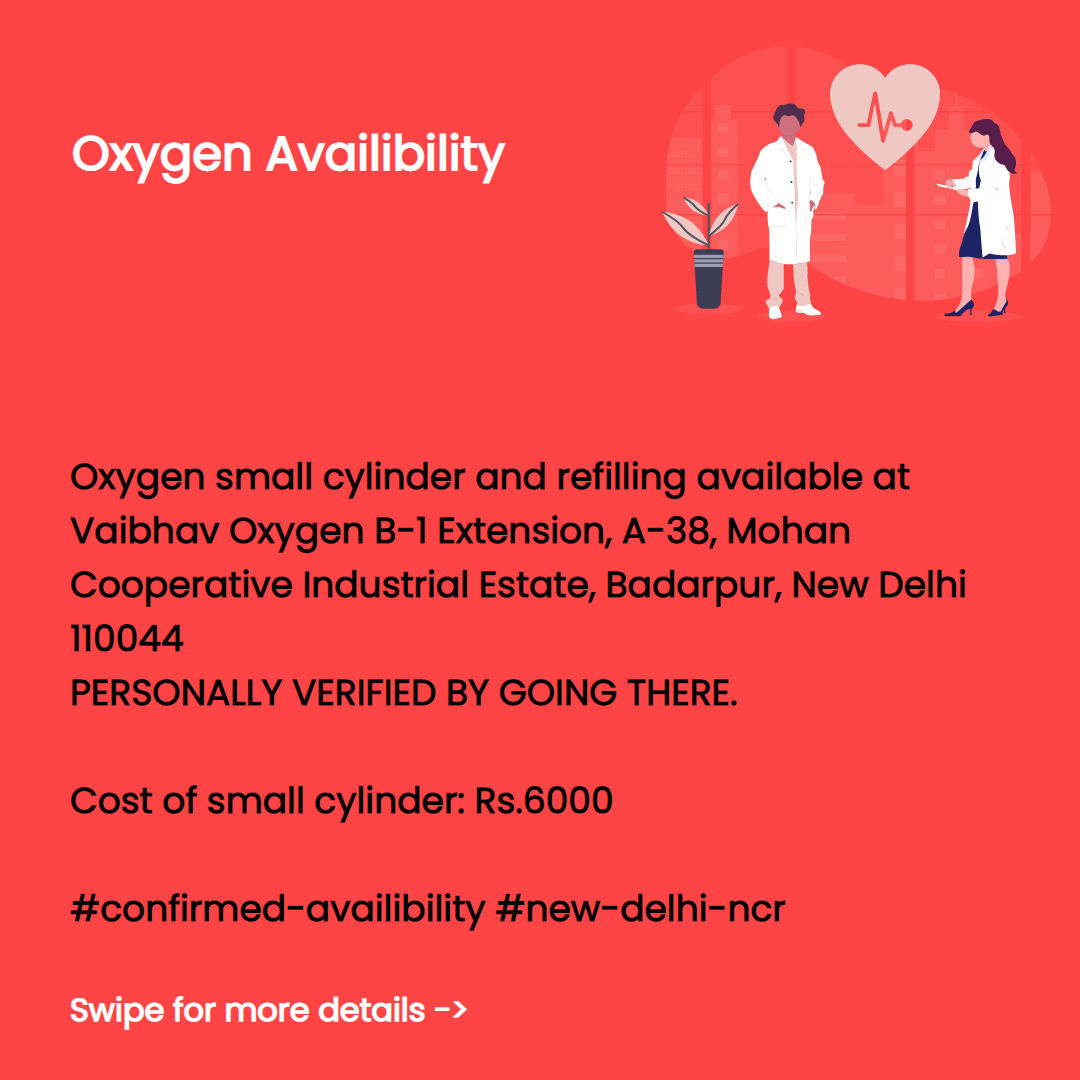
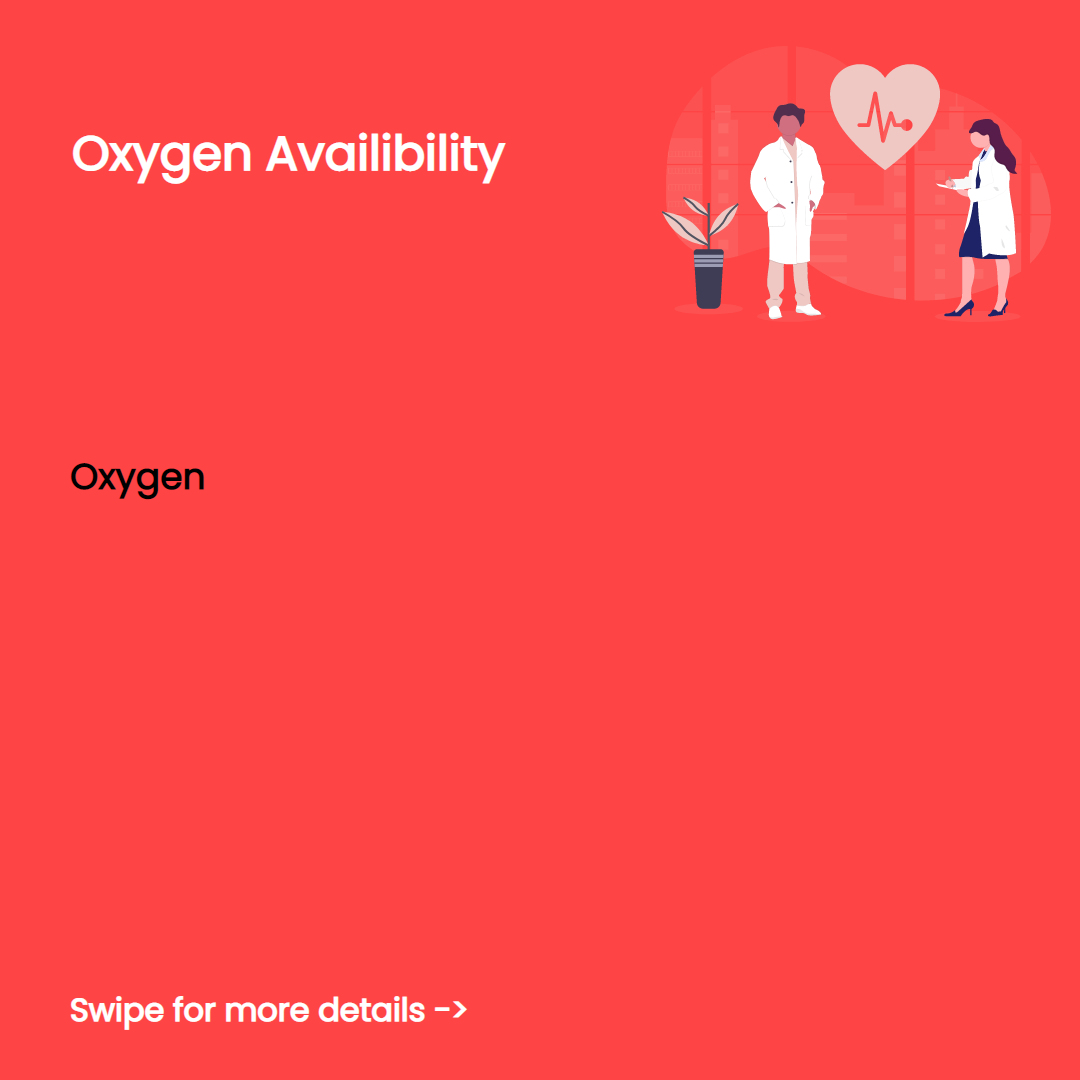
Prepate for Puppeteer for Heroku

Changed region(s): [[0.0611, 0.4278, 0.9167, 0.6722], [0.0611, 0.825, 0.7333, 0.8556], [0.0611, 0.7028, 0.5806, 0.7639]]

diff --git a/design/sampleOut.html b/design/sampleOut.html
@@ -36,7 +36,7 @@ background-color:#FE4445
     font-size: 36px;
     line-height: 54px;
     
-    color: #000000;">Oxygen small cylinder and refilling available at Vaibhav Oxygen B-1 Extension, A-38, Mohan Cooperative Industrial Estate, Badarpur, New Delhi 110044<br>PERSONALLY VERIFIED BY GOING THERE.<br><br>Cost of small cylinder: Rs.6000<br><br>#confirmed-availibility #new-delhi-ncr</p>
+    color: #000000;">Oxygen</p>
 
     <img src="../assets/oxygen.svg" alt="Oxygen Illustration" style="position: absolute;
     width: 389px;

diff --git a/index.js b/index.js
@@ -15,7 +15,9 @@ app.get('/', async (req, res) => {
 	console.log(hashtags);
 	contentHtml = contentHtml.replace('Description', message);
 	fs.writeFileSync('design/sampleOut.html', contentHtml);
-	const browser = await puppeteer.launch();
+	const browser = await puppeteer.launch({
+		args: ['--no-sandbox', '--disable-setuid-sandbox'],
+	});
 	const page = await browser.newPage();
 	await page.setViewport({
 		width: 1080,
